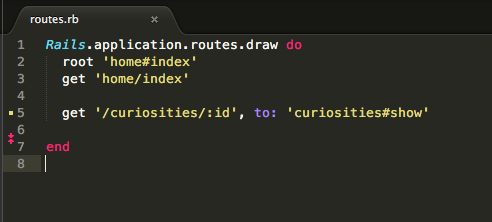
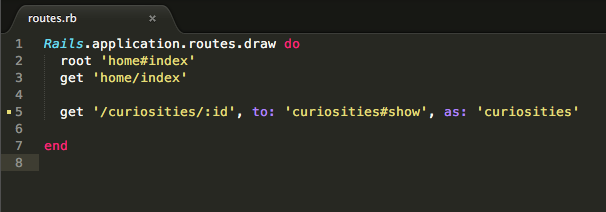
Finish routing part & add images

diff --git a/config/routes.rb b/config/routes.rb
@@ -2,6 +2,6 @@ Rails.application.routes.draw do
   root 'home#index'
   get 'home/index'
 
-  get '/curiosities/:id', to: 'curiosities#show'
+  get '/curiosities/:id', to: 'curiosities#show', as: 'curiosities'
 
 end

diff --git a/README.md b/README.md
@@ -37,19 +37,19 @@ Si vous utilisez SublimeText, vous pouvez faire subl . dans la console pour ouvr
 Pour commencer, créez le fichier ``` app/controllers/curiosities_controller.rb ```.
 Ce fichier est pour le moment vide.
 
-! IMAGE !
+![Controleur vide](/images/readme/empty_controller.png)
 
 Nous allons définir à l'intérieur de ce fichier la classe ``` CuriositiesController ``` qui va nous permettre d'orchestrer les accès aux vues des curiosités.
 
 Pour cela, ajoutez le code suivant dans le fichier ``` app/controllers/curiosities_controller.rb ```:
 
-! IMAGE !
+![Controleur défini](/images/readme/defined_class.png)
 
 Dans votre classe ``` CuriositiesController ```, vous allez ajouter les méthodes qui vont définir les actions possibles à faire sur des curiosités, dans l'application.
 
 Ici, nous commençons donc par travailler sur l'action d'affichage d'une curiosité.
 
-! IMAGE !
+![Définition de la méthode ``` show ```](/images/readme/description_show.png)
 
 Nous avons besoin de définir ce qu'il se passe quand un utilisateur demande à voir les détails d'une curiosité.
 
@@ -57,7 +57,7 @@ Dans la méthode ``` show ```, nous allons récupérer les données d'une curios
 
 Rajoutez la méthode ``` show ``` et ce qu'elle fait dans le controleur ``` Curiosities ``` qui se trouve dans ``` app/controllers/curiosities_controller.rb ``` :
 
-! IMAGE !
+![Description action](/images/readme/instance.png)
 
 > Astuce : Les valeurs contenues dans la variable ``` params ``` viennent du navigateur de l'utilisateur. Il les envoie au serveur lorsqu'une requete est effectuée. Par exemple, si un utilisateur demande:
 > http://localhost:3000/curiosities?toto=poulpe
@@ -66,7 +66,7 @@ Rajoutez la méthode ``` show ``` et ce qu'elle fait dans le controleur ``` Curi
 
 Si à cette étape vous lancez un serveur Rails et que vous essayez d'aller sur ``` http://localhost:3000/curiosities/1 ```, voici le résultat que vous obtiendrez :
 
-! IMAGE !
+![Erreur route manquante](/images/readme/error_view_missing_route.png)
 
 Nous n'avons pas encore défini de route relative à la méthode ``` show ``` que nous venons de créer. Du coup, l'application ne sait pas comment réagir avec cette URL. Voyons maintenant comment définir cette nouvelle route !
 
@@ -78,11 +78,15 @@ Ce travail permet d'associer une URL (sur laquelle veut se rendre un utilisateur
 
 Rajoutez la ligne suivante dans le fichier ``` config/routes.rb ``` :
 
-! IMAGE !
+![Définition route](/images/readme/routes.png)
 
-Si vous lancez un serveur Rails et que vous essayez d'aller sur ``` http://localhost:3000/curiosities/1 ```, voici le résultat que vous obtiendrez :
+Si vous lancez un serveur Rails et que vous essayez d'aller sur ``` http://localhost:3000/curiosities/1 ```, voici les résultats que vous pourriez obtenir :
 
-! IMAGE !
+![Erreur curiosité inconnue](/images/readme/error_view_record_not_found.png)
+
+Ici, l'application n'arrive pas à trouver la curiosité demandée. La curiosité dont l'identifiant est passé en paramètre n'existe pas en base de données.
+
+![Erreur vue manquante](/images/readme/error_view_missing_template.png)
 
 Cette fois l'application sait comment réagir avec cette URL. Le souci maintenant, c'est que la vue associée n'existe pas encore.
 
@@ -97,6 +101,34 @@ Il faut maintenant afficher à l'utilisateur qu'il peut afficher une curiosité 
 Il faut trouver le chemin (``` path ```) qui indiquera la route dans le fichier ``` config/routes.rb ``` vers la méthode du controleur. Pour trouver ce chemin, vous pouvez entrer ``` rake routes ``` dans votre terminal.
 
 Ce qui vous donne :
+
+![Rake routes](/images/readme/rake_routes.png)
+
+La ligne qui nous interesse est la suivante : ```  GET  /curiosities/:id(.:format) curiosities#show ```
+
+Vous retrouvez bien le verbe HTTP ``` GET ``` (cf Verb), l'url ``` /curiosities/:id ```  (cf URI Pattern), la méthode du Controleur ``` curiosities#show ``` (cf Controller#Action). Et tout devant, un prefix ``` curiosities ``` qui vous donne en fait le chemin à rajouter dans votre vue : ``` curiosities_path ```.
+
+Attention, ici, le controleur a besoin de l'identifiant (ID) de la curiosité à afficher. Il faut donc la passer dans les paramètres. Nous l'indiquons comme ceci : ``` curiosities_path(curiosity) ```.
+
+> Important : ``` curiosities_path(curiosity) est une méthode générée par Ruby On Rails directement, en fonction de ce que vous avez défini dans le fichier ``` route.rb ``` . Elle accepte en parametre un objet ``` curiosity ``` ou son identifiant ``` curiosity.id ```.
+
+Rajoutez le lien dans votre vue ``` app/views/home/index.html ``` :
+
+![Lien vers la curiosité](/images/readme/view_index_code.png)
+
+Testez maintenant votre nouveau lien en lançant un serveur Rails. Il s'affiche bien dans votre vue :
+
+![Liste des curiosités](/images/readme/view_display_link.png)
+
+Par contre, si vous cliquez dessus, vous obtenez toujours l'erreur sur la vue manquante.
+
+![Erreur vue manquante](/images/readme/error_view_missing_template.png)
+
+C'est normal, la vue liée à l'action ``` show ``` n'existe pas encore. L'application sait où aller, quoi passer à une vue mais ne connait pas encore cette vue. Construisons la !
+
+### Créer la vue
+
+
 
 # Étape 3 : Pour aller plus loin
 
